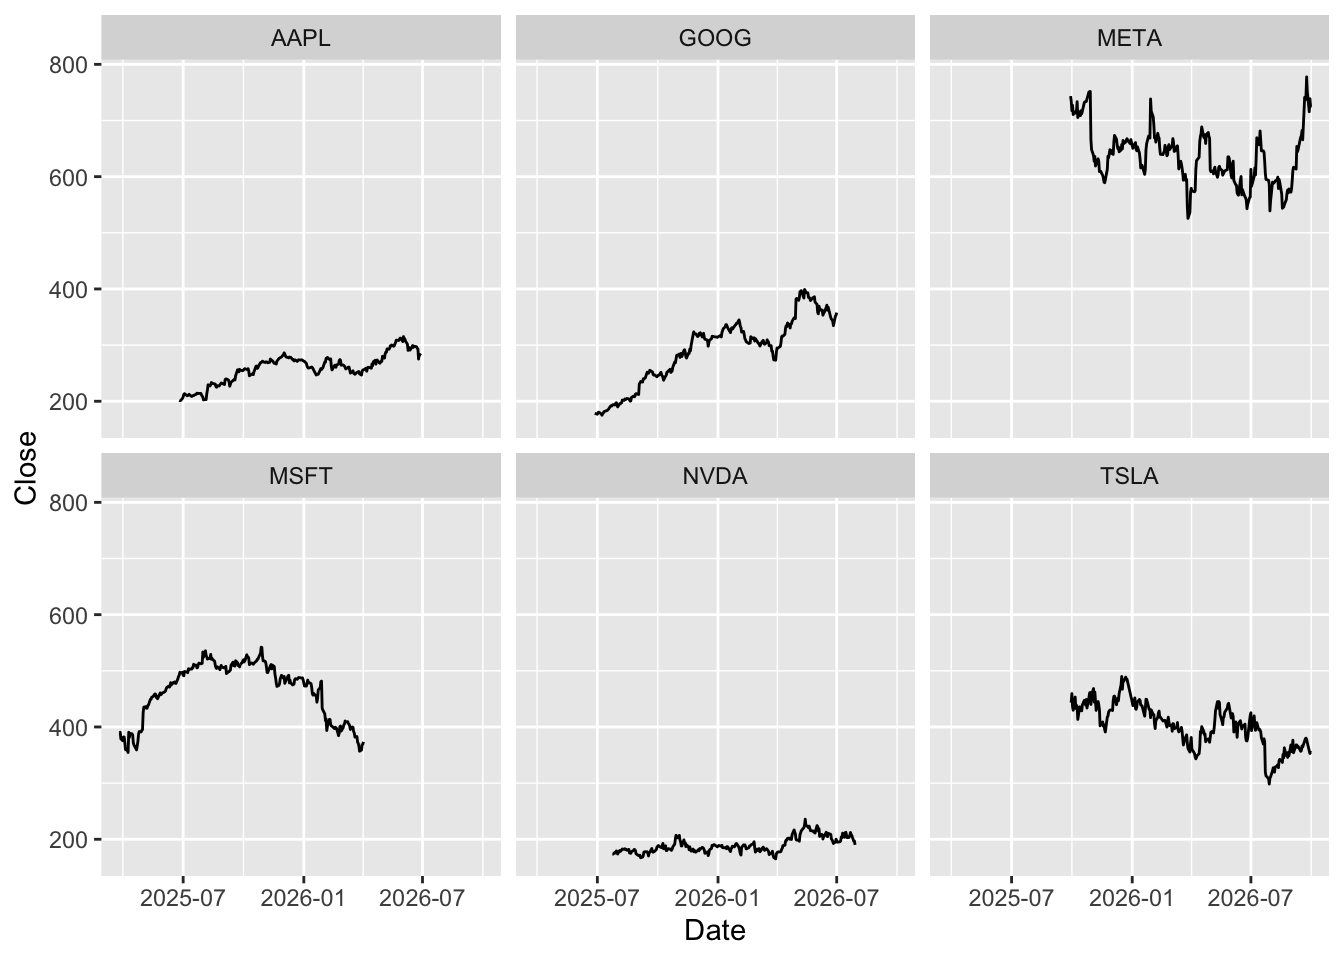
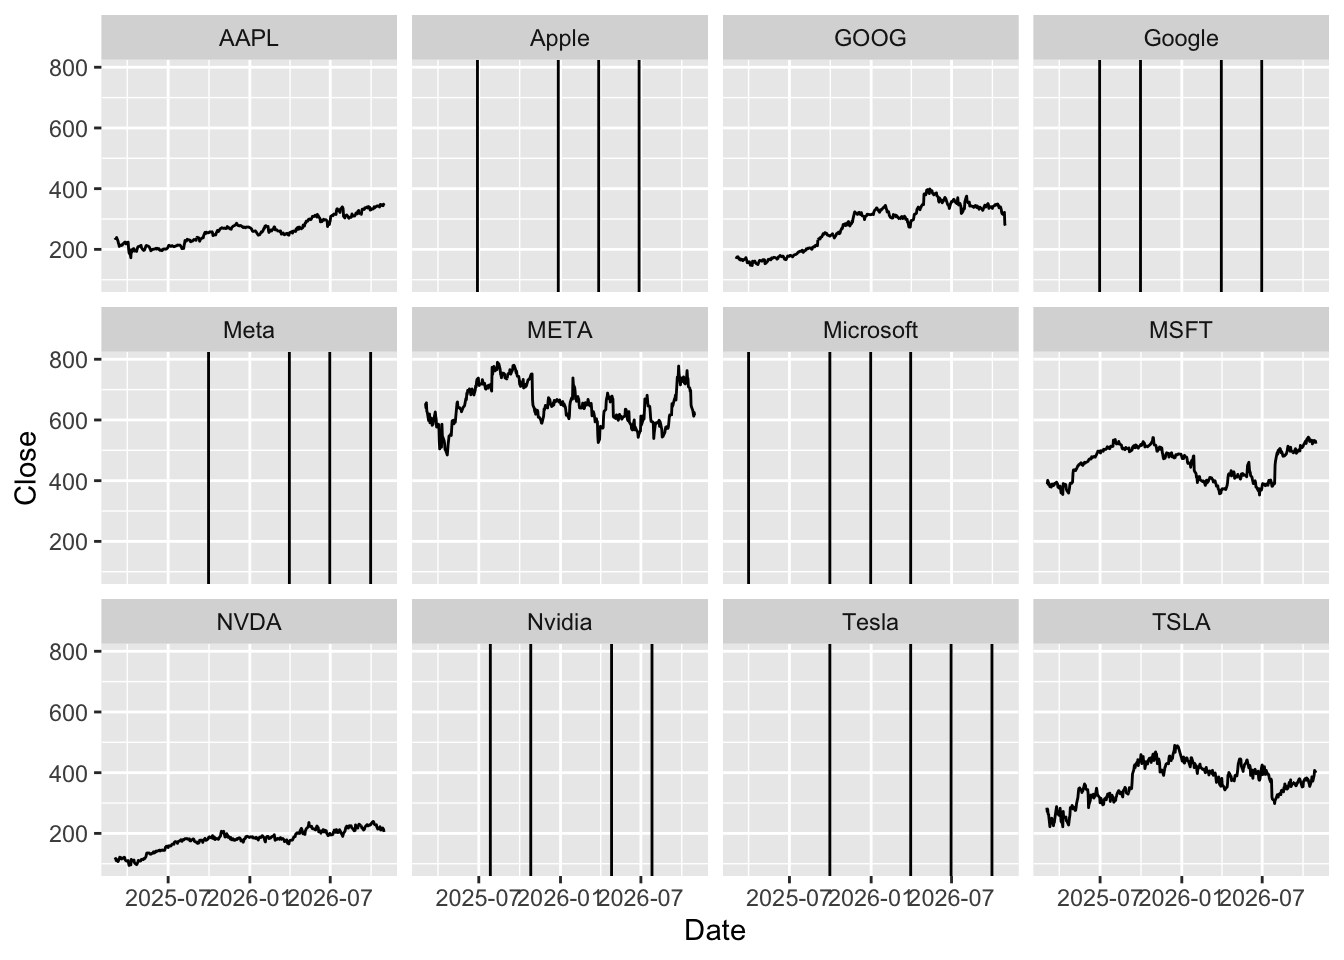
stock time series updated + text web scraping started on

Changed region(s): [[0.0312, 0.0, 1.0, 0.9688]]

diff --git a/docs/draft-qmds/sally-jang-wrangling.html b/docs/draft-qmds/sally-jang-wrangling.html
@@ -340,6 +340,12 @@ dttm (2): FIL-D, REP-D
 ℹ Use `spec()` to retrieve the full column specification for this data.
 ℹ Specify the column types or set `show_col_types = FALSE` to quiet this message.</code></pre>
 </div>
+<div class="cell-output cell-output-stderr">
+<pre><code>Warning: Unknown or uninitialised column: `REP-D`.</code></pre>
+</div>
+<div class="cell-output cell-output-stdout">
+<pre><code>[1] "NULL"</code></pre>
+</div>
 </div>
 <div class="cell">
 <div class="cell-output-display">
